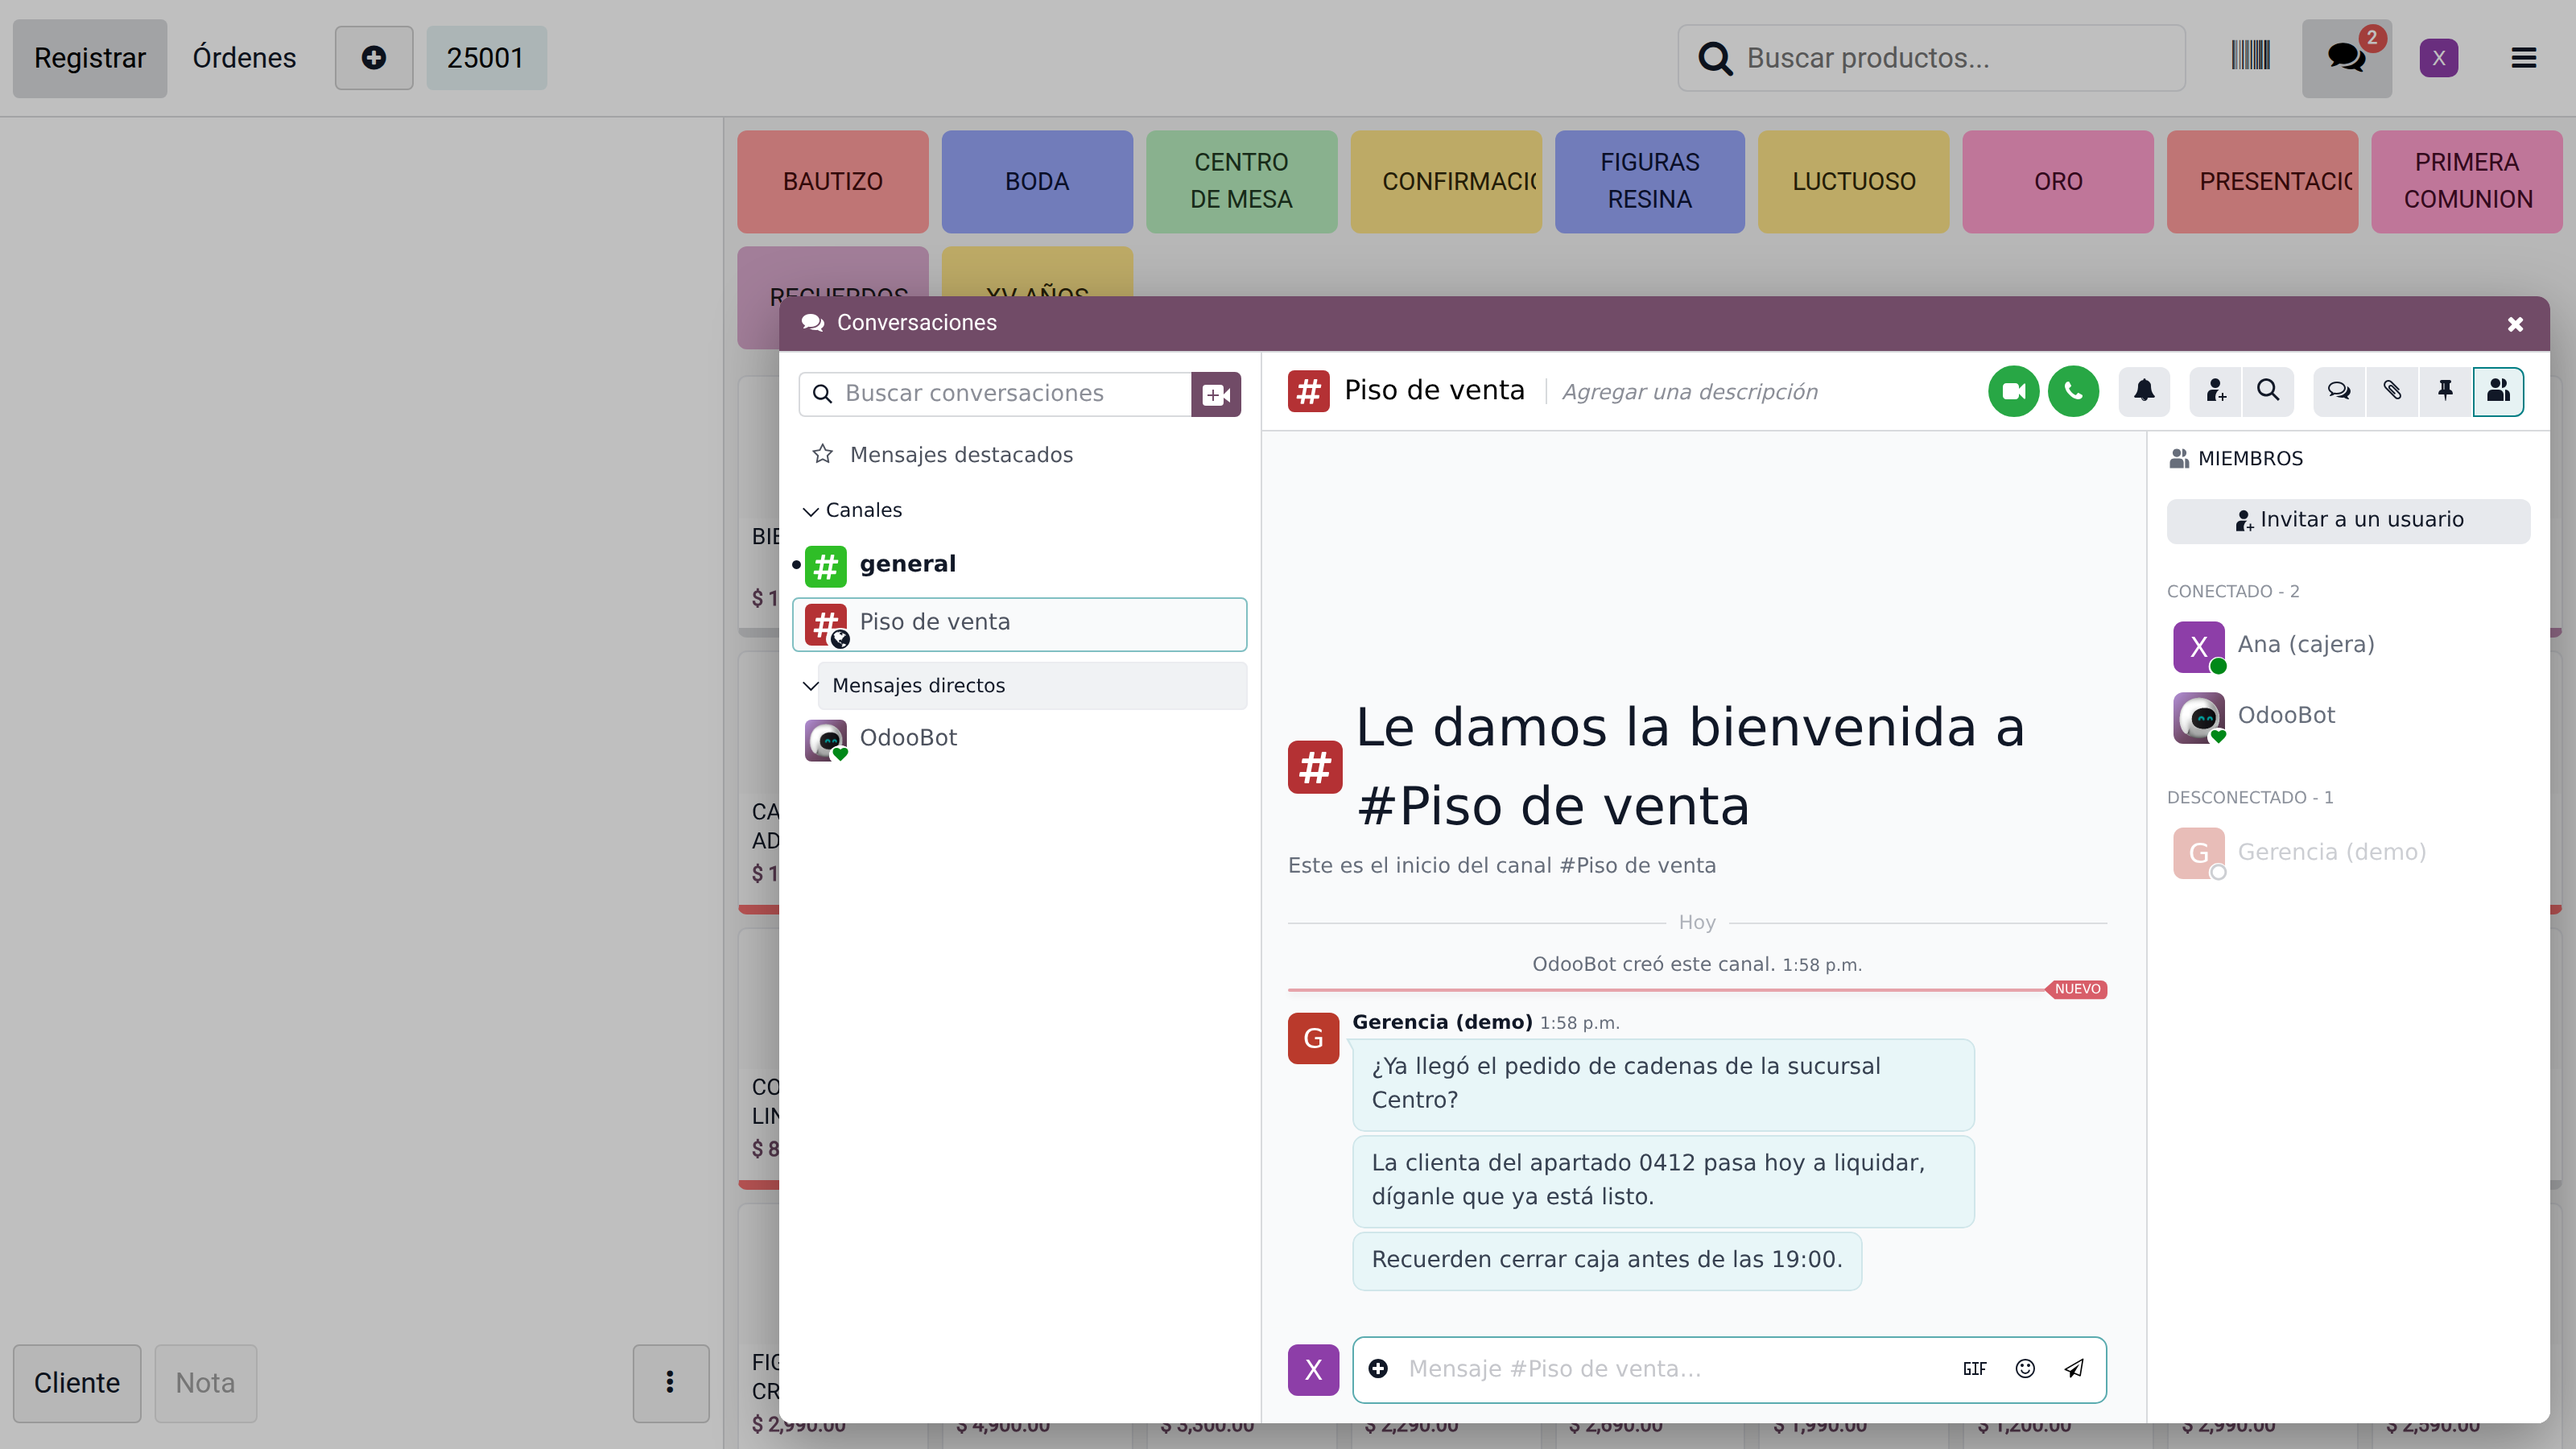
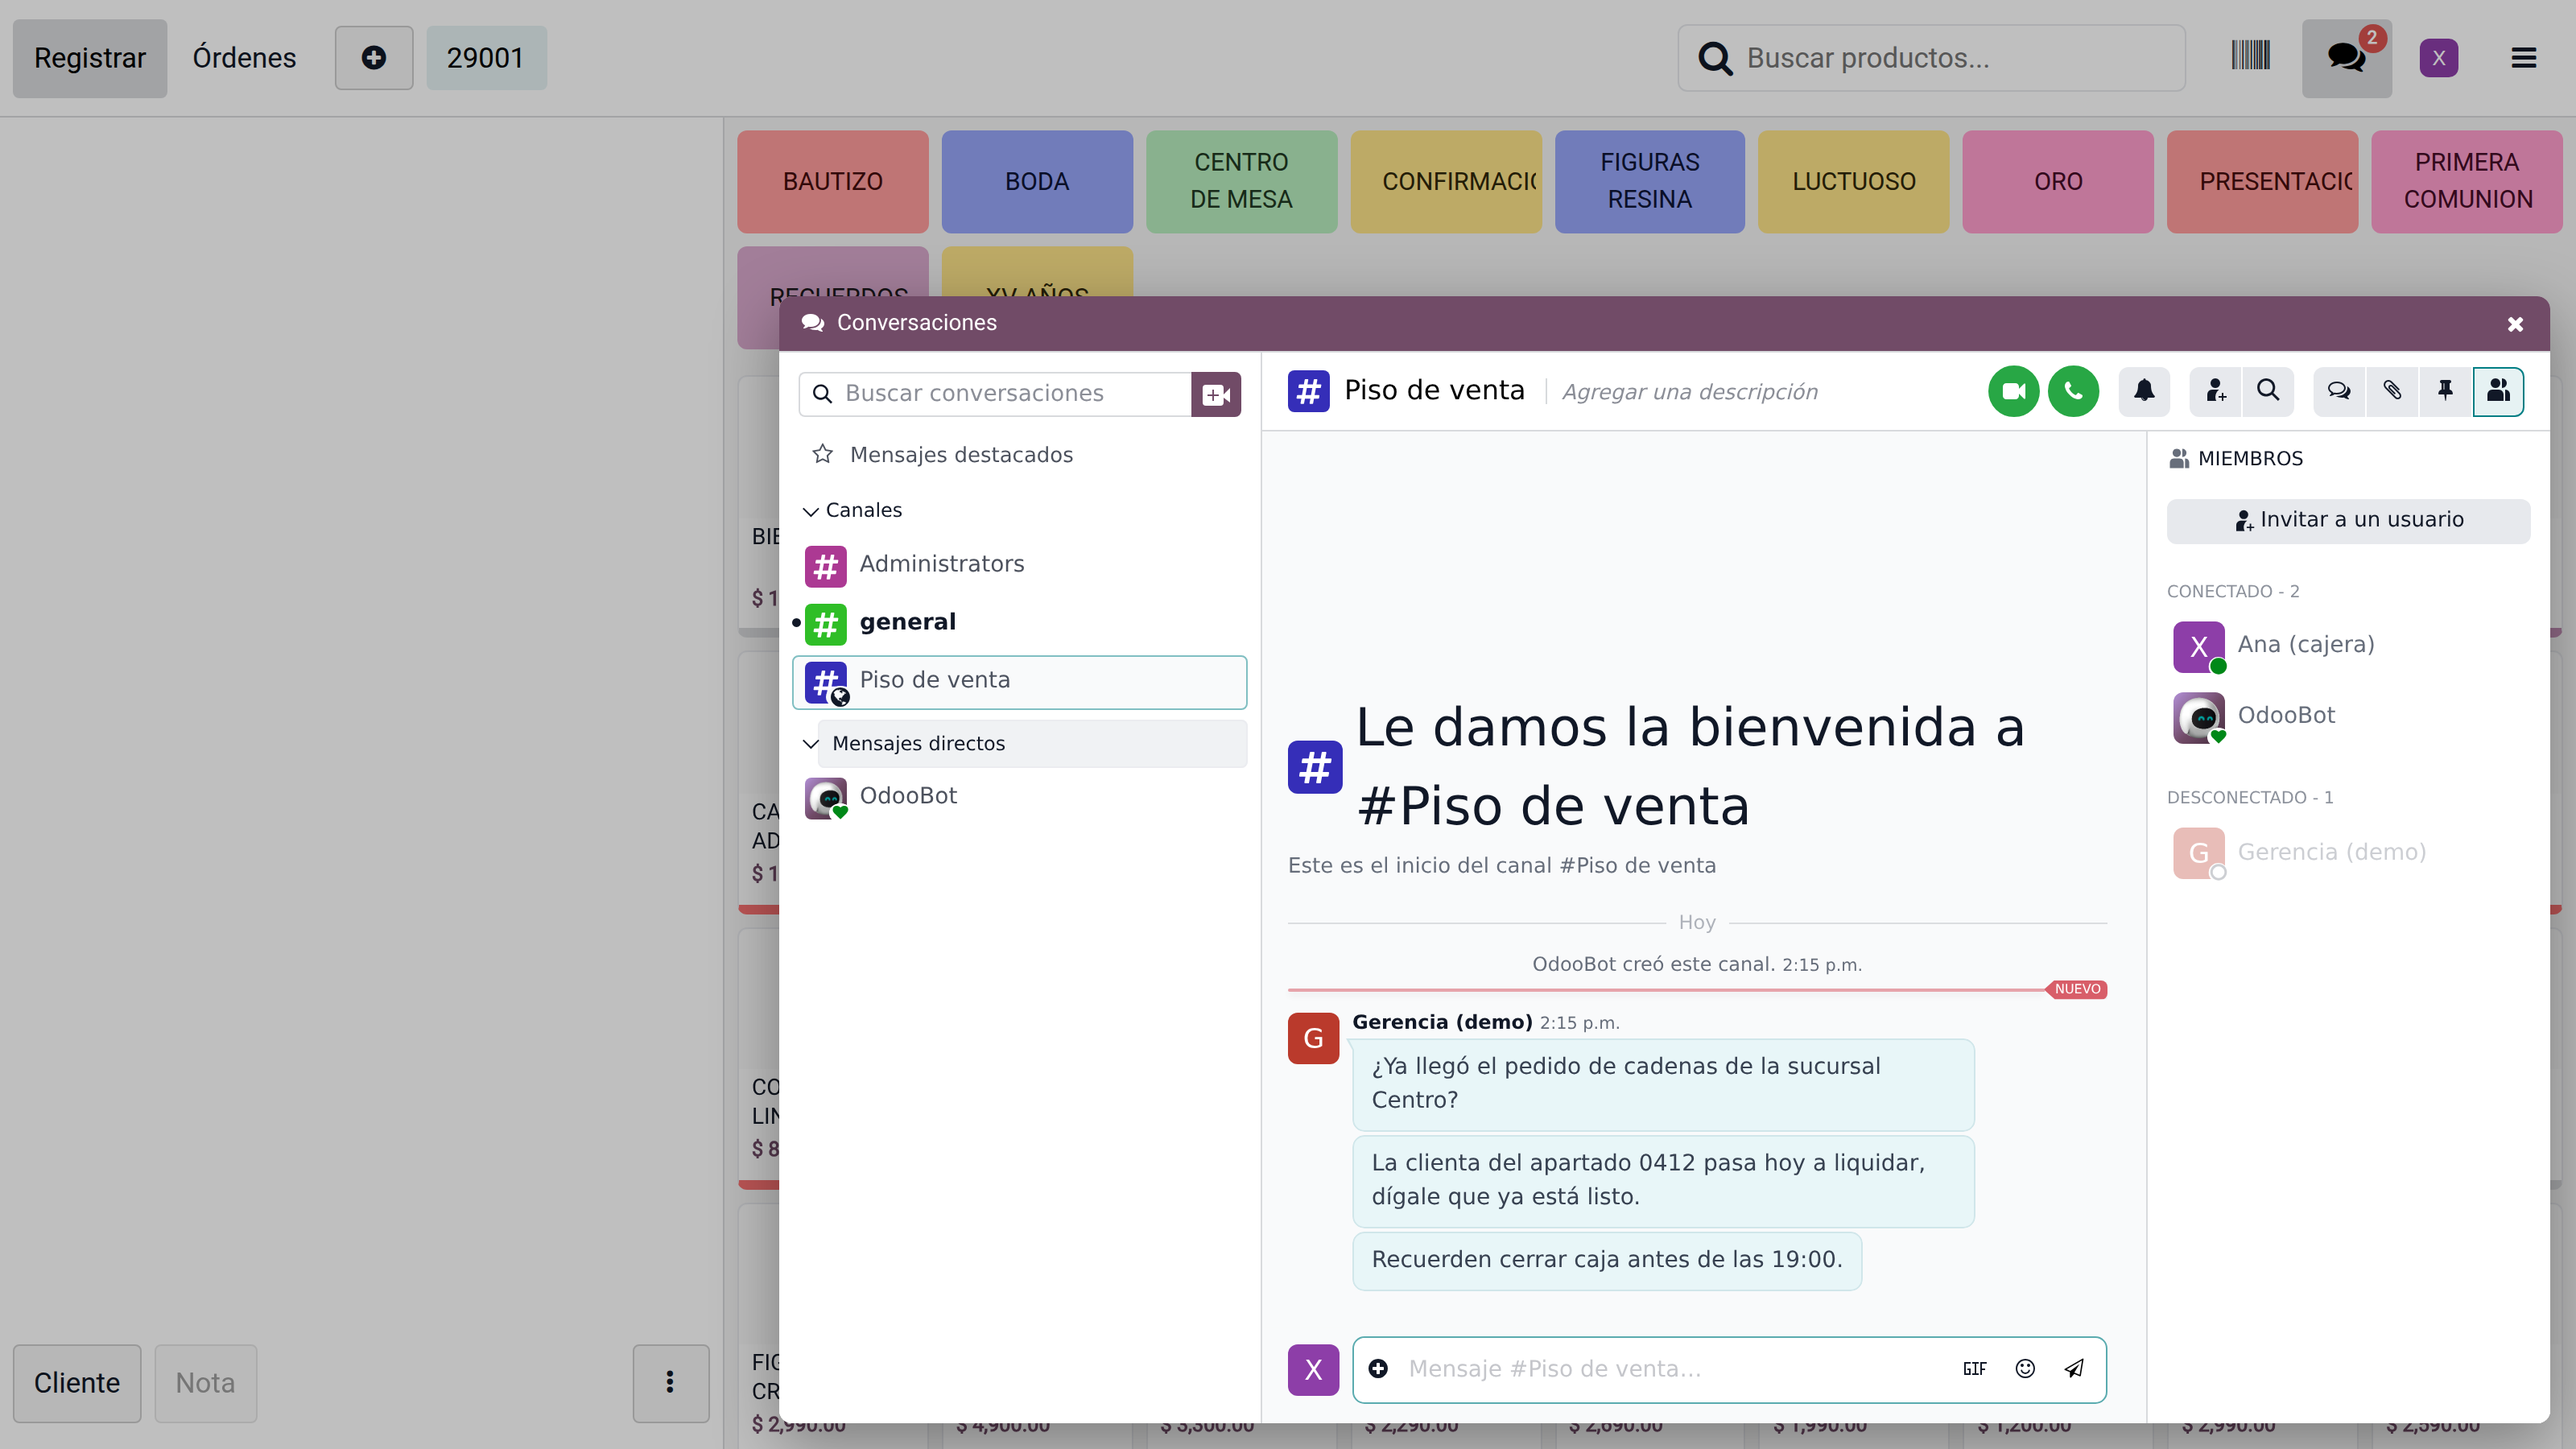
docs(xb_pos_discuss): captura del ajuste por caja + traduccion es_MX completa v19.0.1.0.4
* Tercera captura de la ficha: el bloque "XUBAX - Discuss" en Ajustes > Punto
  de Venta, con el interruptor por caja.
* El .po dejaba sin traducir los msgid de varias lineas (el generador los
  confundia con la cabecera del archivo), asi que el texto de ayuda del ajuste
  salia en ingles dentro de una interfaz en espanol. Regenerado: 10 de 10.

diff --git a/xb_pos_discuss/static/description/index.html b/xb_pos_discuss/static/description/index.html
@@ -79,11 +79,19 @@
     </div>
 
     <h3 style="color:#5B3F73;margin:0 0 10px;">Configuration</h3>
-    <p style="font-size:15px;line-height:1.6;margin:0 0 28px;">
+    <p style="font-size:15px;line-height:1.6;margin:0 0 14px;">
       <b>Settings &rsaquo; Point of Sale &rsaquo; XUBAX - Discuss &rsaquo; Discuss in
       the POS</b> &mdash; one switch per Point of Sale, enabled by default.
       Nothing else to set up.
     </p>
+    <div style="margin:0 0 32px;">
+      <img src="screenshots/03-ajustes-por-caja.png"
+           style="max-width:100%;border:1px solid #e3dce9;border-radius:8px;"/>
+      <p style="font-size:13px;color:#888;margin:8px 0 0;">
+        Screenshots taken on a Spanish-language Odoo 19 install &mdash; the module
+        ships English and Spanish (es_MX) translations.
+      </p>
+    </div>
 
     <h3 style="color:#5B3F73;margin:0 0 10px;">Technical notes</h3>
     <ul style="font-size:15px;line-height:1.7;margin:0 0 28px;padding-left:20px;">

diff --git a/xb_pos_discuss/__manifest__.py b/xb_pos_discuss/__manifest__.py
@@ -67,7 +67,7 @@ Compatibility
     "website": "https://www.xubax.com",
     "support": "soporte@xubax.com",
     "category": "Point of Sale",
-    "version": "19.0.1.0.3",
+    "version": "19.0.1.0.4",
     "license": "OPL-1",
     "price": 49.00,
     "currency": "USD",
